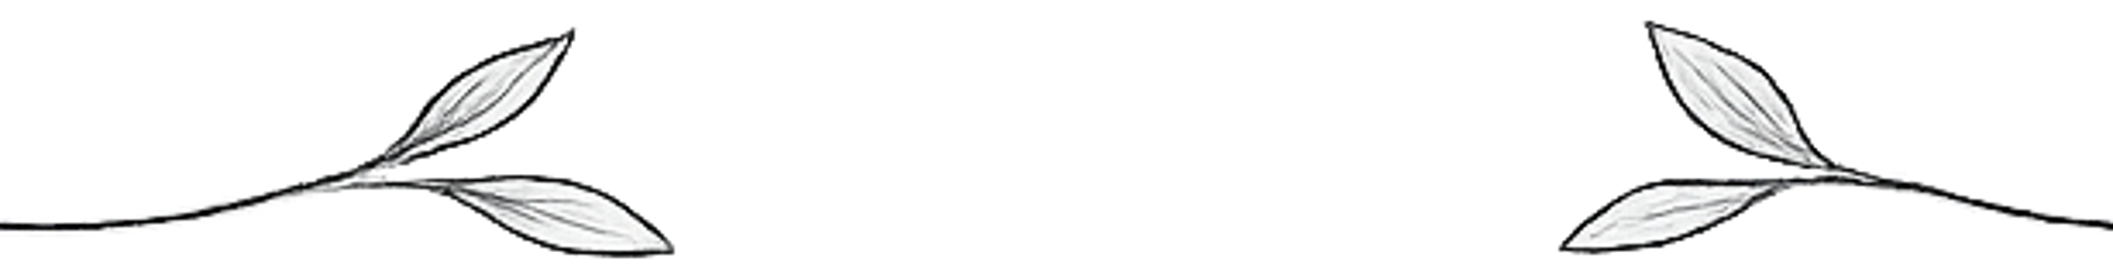
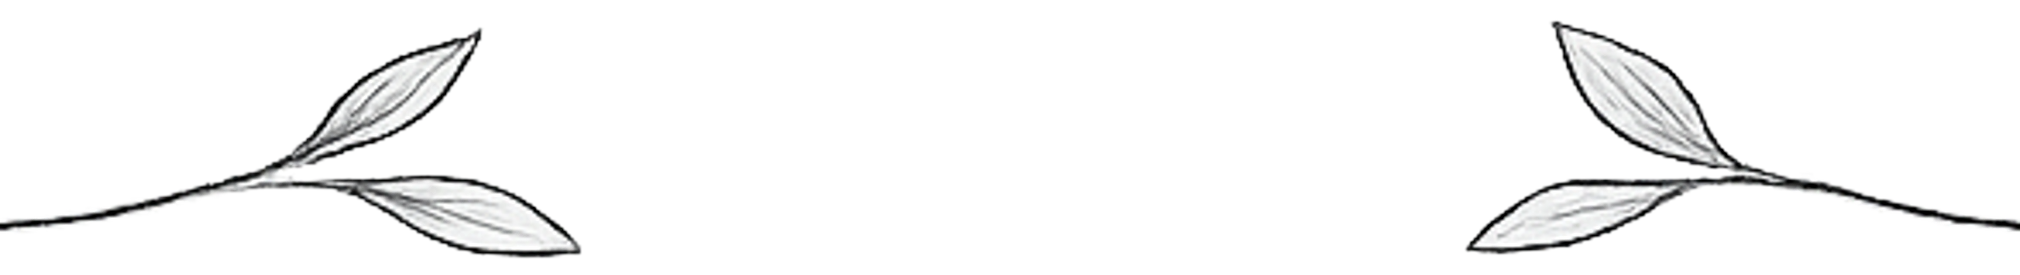
arreglo definitivo de los teste de alineacion de hoja

Changed region(s): [[0.0, 0.1164, 0.3431, 0.96], [0.7173, 0.0873, 0.998, 0.9309]]

diff --git a/style.css b/style.css
@@ -203,11 +203,11 @@ p { margin-bottom: 1rem; font-size: 0.95rem; }
 /* body.content-visible { ... } */
 
 @media (max-width: 920px) { .content-wrapper.visible { max-width: 100%; box-shadow: none; margin: 0 auto; } }
-@media (max-width: 768px) { h1 { font-size: 2.5rem; } h2 { font-size: 3rem; } .section { padding: 3rem 1rem; } .leaf-art { max-width: 120px; } .leaf-top, .leaf-bottom { max-width: 200px; } .leaf-circle-frame { max-width: 300px; } .initials-circle { width: 150px; height: 150px; } .initials-circle span { font-size: 3.5rem; } .countdown-timer { gap: 1rem; } .countdown-timer span { font-size: 1rem; } }
+@media (max-width: 768px) { h1 { font-size: 2.5rem; } h2 { font-size: 3rem; } .section { padding: 3rem 1rem; } .leaf-art { max-width: 120px; } .leaf-top, .leaf-bottom-1 { max-width: 300px; } .leaf-circle-frame { max-width: 300px; } .initials-circle { width: 150px; height: 150px; } .initials-circle span { font-size: 3.5rem; } .countdown-timer { gap: 1rem; } .countdown-timer span { font-size: 1rem; } }
 @media (max-width: 480px) {
     #envelope-container { width: 280px; height: 180px; } /* Ajustar sobre en móvil */
     .envelope-card .card-names { font-size: 1.5rem;}
     .flap-text { font-size: 0.8rem; }
     /* ... (resto de tus estilos responsivos) ... */
-     body { font-size: 15px; } h1 { font-size: 2rem; } h2 { font-size: 2.5rem; } .section { padding: 2.5rem 1rem; } .hero-image-container { width: 90%; margin-top: 2rem; margin-bottom: 2rem;} .leaf-art { max-width: 100px; } .leaf-top, .leaf-bottom { max-width: 180px; } .leaf-circle-frame { max-width: 250px; } .initials-circle { width: 120px; height: 120px; } .initials-circle span { font-size: 3rem; } .invitation-section .script-text { font-size: 1.5rem; } .countdown-section { padding: 1.5rem 1rem 0; } .countdown-timer { gap: 0.5rem;} .countdown-timer div { margin-bottom: 0.5rem; } .countdown-timer span { font-size: 1rem; } .gift-section { padding-top: 2rem; } .itinerary-list { display: block; text-align: center;} .itinerary-list li { justify-content: center;} .footer-names { font-size: 1rem; } .footer-message { font-size: 0.8rem; } .leaf-footer-left, .leaf-footer-right { max-width: 80px; }
+     body { font-size: 15px; } h1 { font-size: 2rem; } h2 { font-size: 2.5rem; } .section { padding: 2.5rem 1rem; } .hero-image-container { width: 90%; margin-top: 2rem; margin-bottom: 2rem;} .leaf-art { max-width: 100px; } .leaf-top, .leaf-bottom-1 { max-width: 300px; } .leaf-circle-frame { max-width: 250px; } .initials-circle { width: 120px; height: 120px; } .initials-circle span { font-size: 3rem; } .invitation-section .script-text { font-size: 1.5rem; } .countdown-section { padding: 1.5rem 1rem 0; } .countdown-timer { gap: 0.5rem;} .countdown-timer div { margin-bottom: 0.5rem; } .countdown-timer span { font-size: 1rem; } .gift-section { padding-top: 2rem; } .itinerary-list { display: block; text-align: center;} .itinerary-list li { justify-content: center;} .footer-names { font-size: 1rem; } .footer-message { font-size: 0.8rem; } .leaf-footer-left, .leaf-footer-right { max-width: 80px; }
 }
